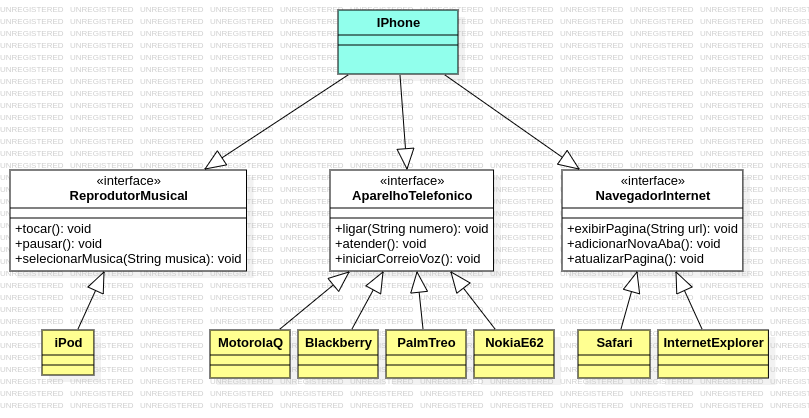
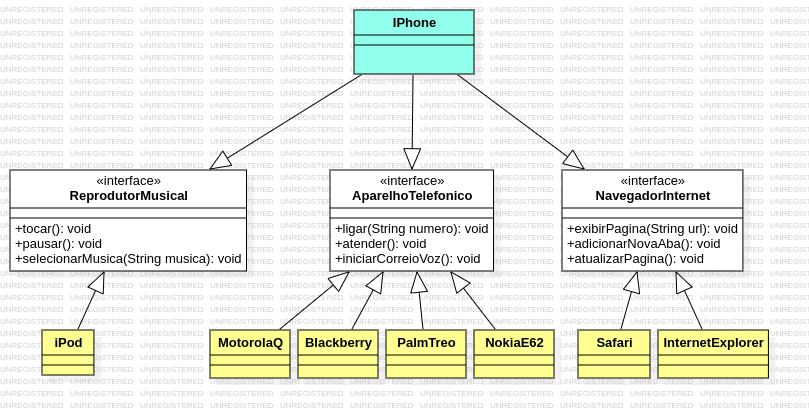
Atualização do diagrama de classe, inclusão das interfaces

diff --git a/desafio-poo/src/NavegadorInternet.java b/desafio-poo/src/NavegadorInternet.java
@@ -1,0 +1,7 @@
+public interface NavegadorInternet {
+
+    public void exibirPagina(String url);
+    public void adicionarNovaAba();
+    public void atualizarPagina();
+    
+}

diff --git a/desafio-poo/src/AparelhoTelefonico.java b/desafio-poo/src/AparelhoTelefonico.java
@@ -1,0 +1,7 @@
+public interface AparelhoTelefonico {
+
+    public void ligar(String numero);
+    public void atender();
+    public void iniciarCorreioVoz();
+
+}

diff --git a/desafio-poo/src/ReprodutorMusical.java b/desafio-poo/src/ReprodutorMusical.java
@@ -1,0 +1,7 @@
+public interface ReprodutorMusical {
+
+    public void tocar();
+    public void pausar();
+    public void selecionarMusica(String musica);
+
+}
